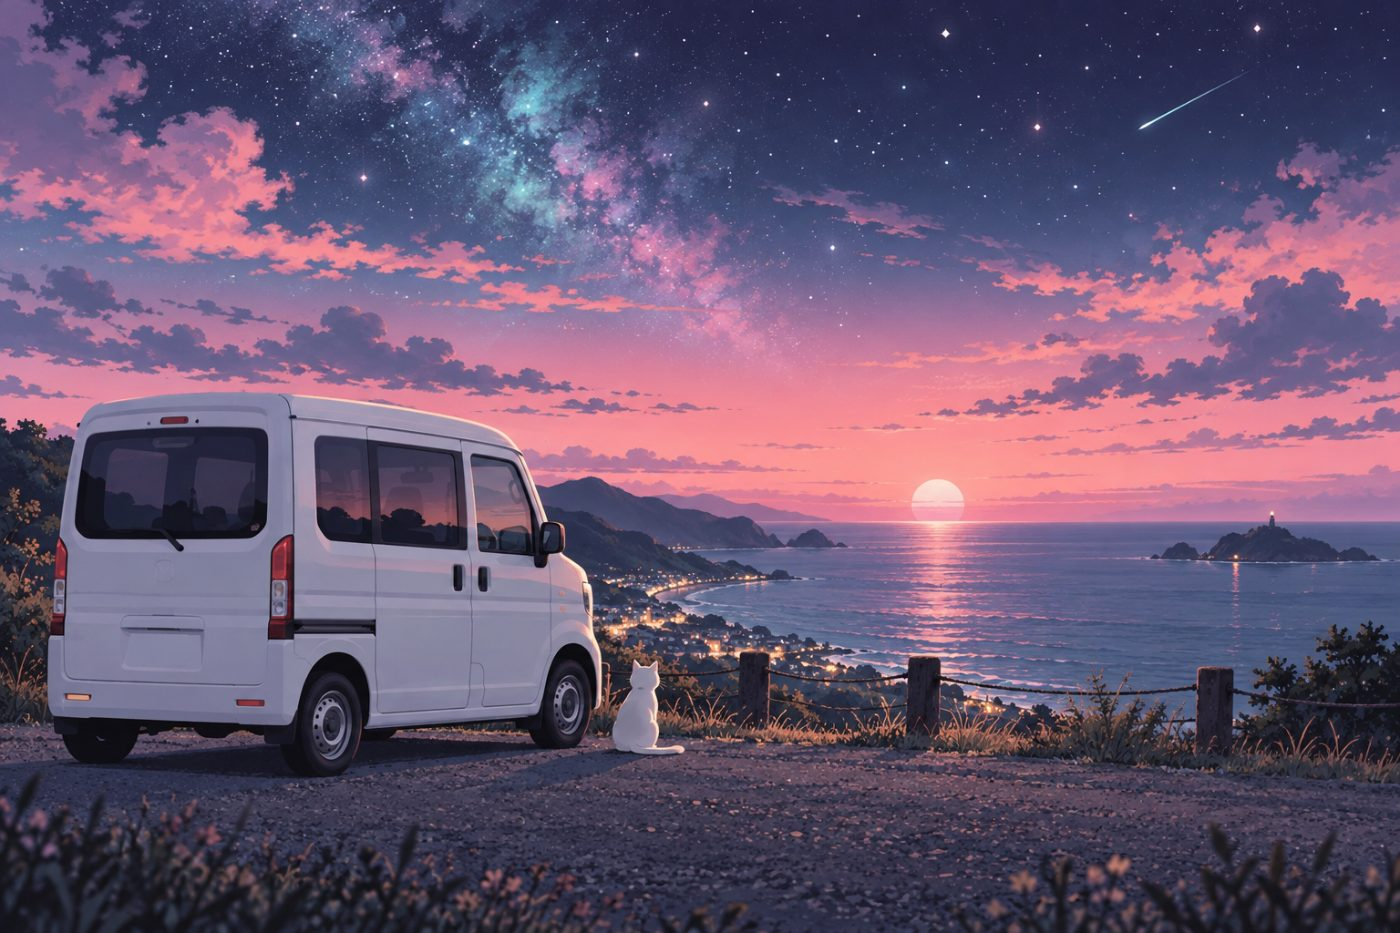
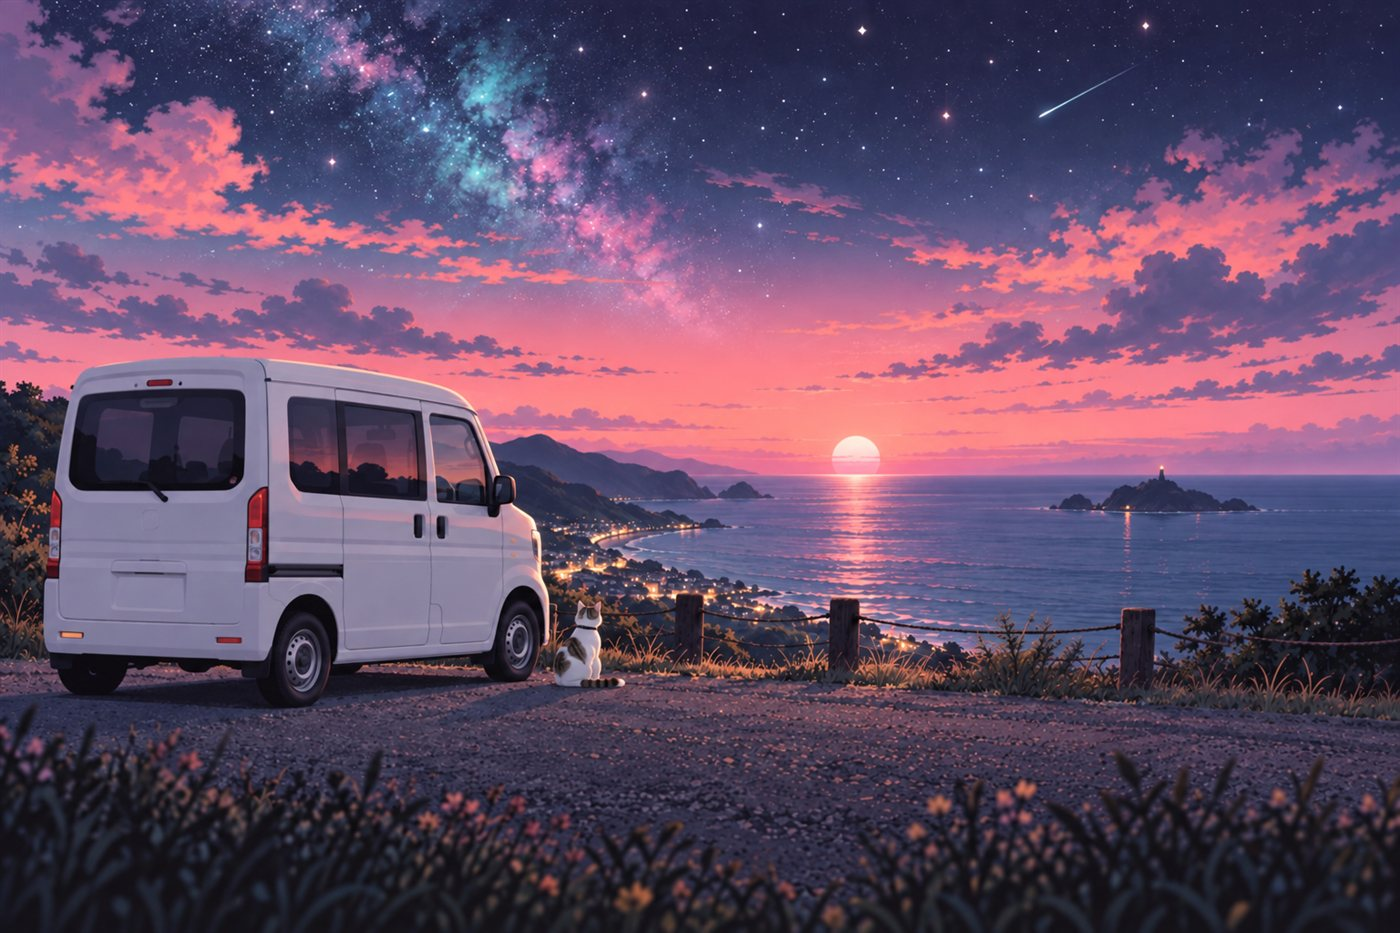
Draw Tom with his real coat in the home page illustrations
Claude-Session: https://claude.ai/code/session_01MJ7uf8Yex4k5ZMAKpsRoNs

diff --git a/index.html b/index.html
@@ -115,7 +115,7 @@
 <div class="hero-art">
 <img src="assets/logo.jpg" width="1600" height="900" alt="SpaceFamilyCompany のロゴ。星雲を背景に、水色と桃色の菱形が輝いている">
 <p class="hero-copy">どこにいても<br>つくれる。<br>きっと、だれかの役に立つ。</p>
-<div class="photo hero-photo has-img"><img src="assets/img/hero-nvan.jpg" width="1400" height="933" alt="夕焼けの海辺に停まった白い軽バンと、そばに座る白猫のイラスト" loading="lazy"><span class="tag-note">イラスト</span></div>
+<div class="photo hero-photo has-img"><img src="assets/img/hero-nvan.jpg" width="1400" height="933" alt="夕焼けの海辺に停まった白い軽バンと、そばに座る白と茶トラのぶち猫トムのイラスト" loading="lazy"><span class="tag-note">イラスト</span></div>
 </div>
 </section>
 
@@ -158,7 +158,7 @@
 </div>
 <div class="cards">
 <article class="card card--ink s-main">
-<div class="photo has-img"><img src="assets/img/lab-nvan.jpg" width="1400" height="933" alt="軽バンのバックドアを開けてノートパソコンで開発する人と、隣で丸くなる白猫のイラスト" loading="lazy"><span class="tag-note">イラスト</span></div>
+<div class="photo has-img"><img src="assets/img/lab-nvan.jpg" width="1400" height="933" alt="軽バンのバックドアを開けてノートパソコンで開発する人と、隣で丸くなるぶち猫トムのイラスト" loading="lazy"><span class="tag-note">イラスト</span></div>
 <div class="card-body">
 <h3 class="t-h3">日本中を走る、移動する研究所。</h3>
 <p class="body">所長は軽バンのN-VANに白猫のトムを乗せ、宮崎、長崎、大阪、千葉、新潟と拠点を移しながら開発しています。「全国対応」は言葉だけではありません。オンラインで完結しつつ、旅の途中なら直接うかがうこともできます。</p>
